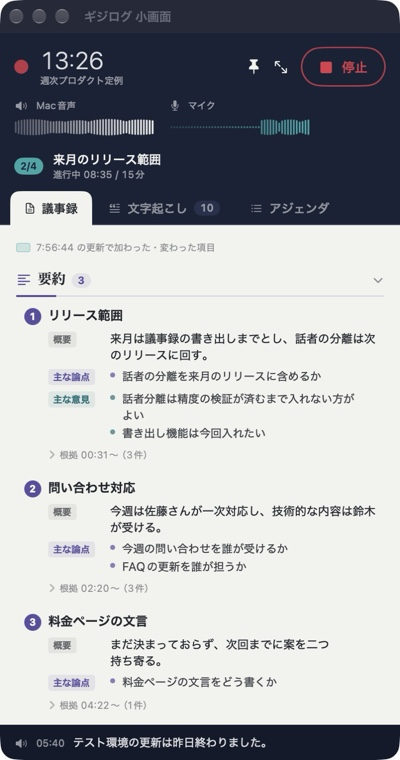
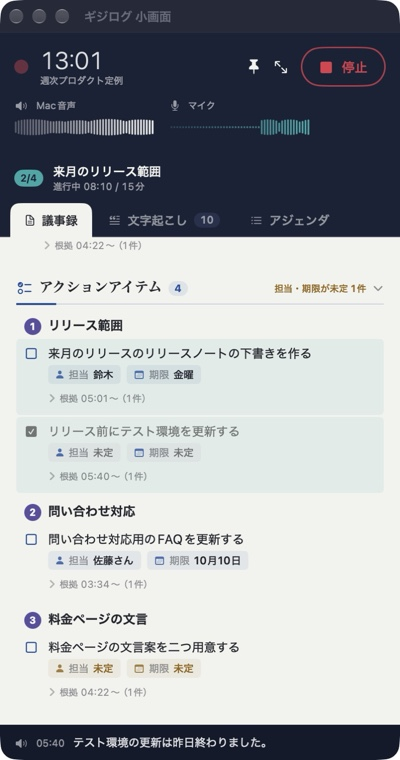
Retake the screenshots with decisions and actions listed by topic
The full window now shows the summary's topics above the decisions under their topic heading; the compact window shows the action items under theirs.

diff --git a/README.en.md b/README.en.md
@@ -9,8 +9,8 @@ Keep its compact window next to the call to see what has been decided, what is s
 > The interface and the generated minutes are in Japanese.
 
 <p>
-  <img src="docs/images/compact.jpg" alt="Compact window during a meeting" height="420">
-  <img src="docs/images/main.jpg" alt="Full window with the meeting list, the agenda in progress and the summary by topic, and the transcript" height="420">
+  <img src="docs/images/compact.jpg" alt="Compact window during a meeting, with the action items listed by topic" height="420">
+  <img src="docs/images/main.jpg" alt="Full window with the meeting list, the summary and decisions by topic, and the transcript" height="420">
 </p>
 
 ## Features

diff --git a/README.md b/README.md
@@ -6,8 +6,8 @@
 [English](README.en.md)
 
 <p>
-  <img src="docs/images/compact.jpg" alt="会議中の小画面" height="420">
-  <img src="docs/images/main.jpg" alt="大きい画面（会議の一覧、進行中のアジェンダと話題ごとの要約、文字起こし）" height="420">
+  <img src="docs/images/compact.jpg" alt="会議中の小画面（話題ごとにまとめたアクションアイテム）" height="420">
+  <img src="docs/images/main.jpg" alt="大きい画面（会議の一覧、話題ごとの要約と決定事項、文字起こし）" height="420">
 </p>
 
 ## できること
